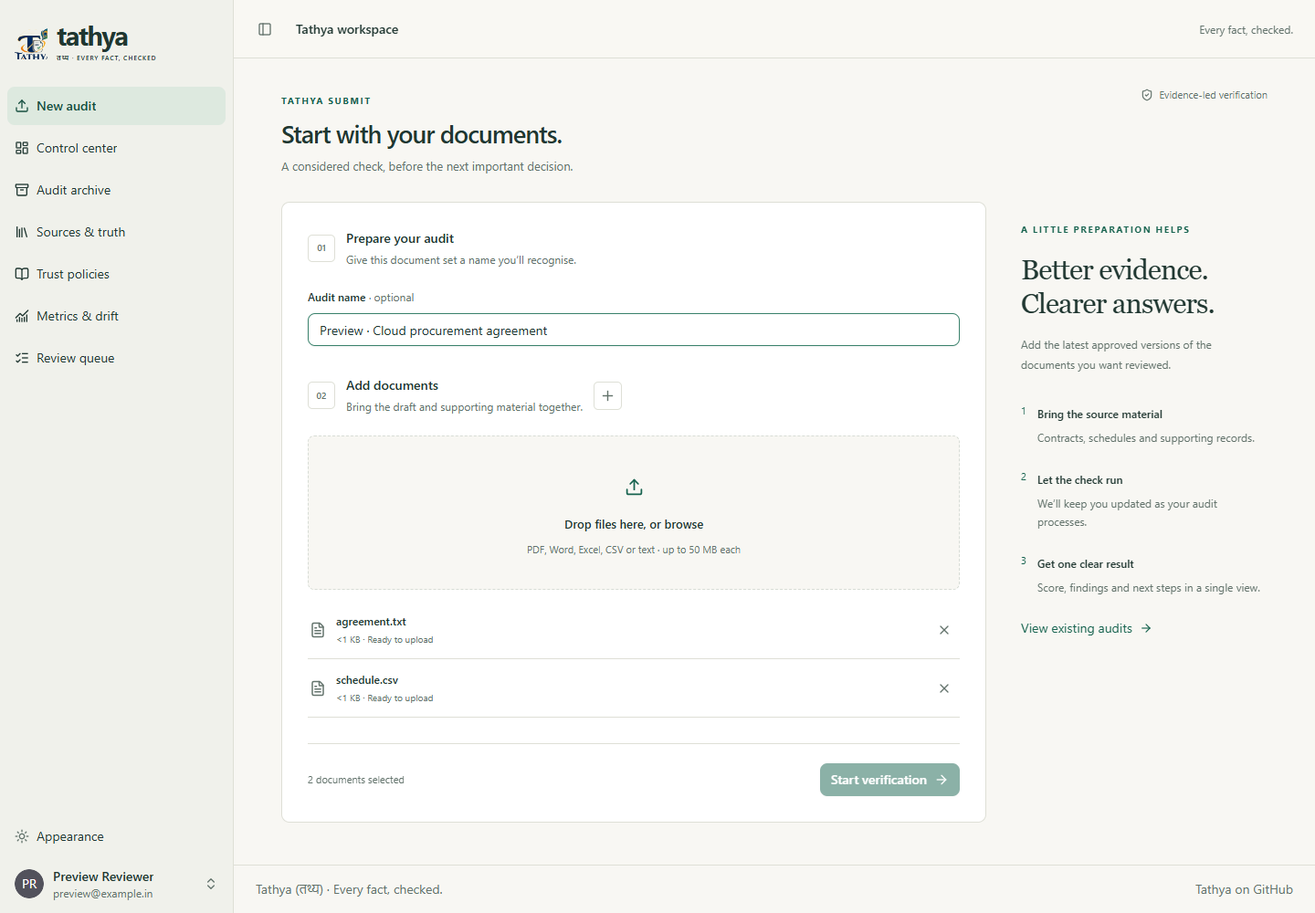
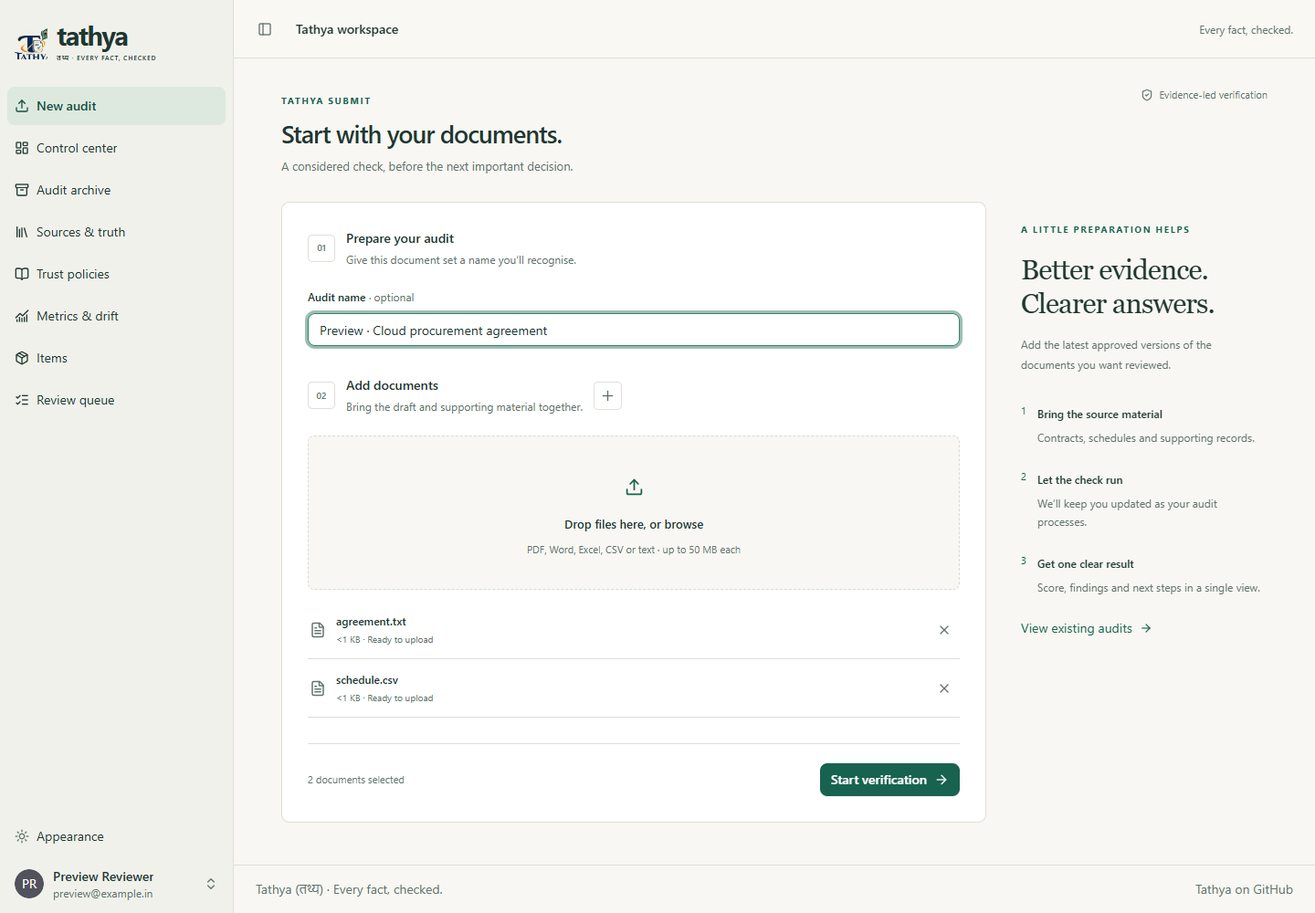
Sync published approved UI and retain existing Items access

Changed region(s): [[0.625, 0.837, 0.75, 0.899], [0.0, 0.372, 0.0938, 0.403], [0.0312, 0.434, 0.0938, 0.465]]

diff --git a/docs/ui-design-review/index.html b/docs/ui-design-review/index.html
@@ -1,1 +1,1 @@
-<!doctype html><html lang="en"><meta charset="utf-8"><meta name="viewport" content="width=device-width,initial-scale=1"><title>Tathya · Design review</title><style>*{box-sizing:border-box}body{margin:0;background:#f8f7f2;color:#183831;font:14px system-ui,sans-serif}main{max-width:1280px;margin:auto;padding:48px 24px}header small{letter-spacing:.18em;color:#796c4c}h1{font:52px Georgia,serif;margin:16px 0}header p{line-height:1.7;color:#63746e;max-width:700px}video{width:100%;max-height:560px;background:#f8f3e3;border-radius:16px;border:1px solid #ddd8c9;margin:24px 0}nav{display:flex;gap:12px;margin:24px 0;position:sticky;top:0;padding:16px 0;background:#f8f7f2;z-index:1}button{padding:10px 20px;border:1px solid #cbd5cd;border-radius:8px;background:white;color:#183831;cursor:pointer}button[aria-pressed="true"]{background:#185d4f;color:white}.grid{display:grid;grid-template-columns:repeat(2,minmax(0,1fr));gap:24px}article{border:1px solid #dedfd5;border-radius:12px;background:white;overflow:hidden}article img{width:100%;height:310px;object-fit:contain;background:#efeee7;display:block}h3{margin:0;padding:18px;font-size:15px}[hidden]{display:none}@media(max-width:650px){.grid{grid-template-columns:1fr}h1{font-size:36px}article img{height:260px}}.splash-live{display:block;width:100%;height:560px;border:1px solid #ddd8c9;border-radius:16px;margin:24px 0;background:#f8f3e3}@media(max-width:650px){.splash-live{height:500px}}</style><main><header><small>TATHYA / PHASE 1 + PHASE 2</small><h1>Designed for clarity.</h1><p>Complete web review: authentication, submission, results, control, review, sources, policies, metrics, governance and verification. Screenshots use sample Preview records. Policy editing and score drift require additional backend capabilities. Main merge awaits your approval.</p></header><h2>Animated brand splash</h2><iframe class="splash-live" title="Live animated Tathya splash" src="http://127.0.0.1:4173/splash"></iframe><nav aria-label="Filter screenshots"><button data-filter="all" aria-pressed="true">All screens</button><button data-filter="desktop" aria-pressed="false">Desktop</button><button data-filter="mobile" aria-pressed="false">Mobile</button></nav><div class="grid"><article data-kind="desktop"><a href="screenshots/splash-complete-v3.png" target="_blank"><img src="screenshots/splash-complete-v3.png" alt="Animated splash" loading="lazy"/></a><h3>Animated splash</h3></article><article data-kind="desktop"><a href="screenshots/splash-parts-v3.png" target="_blank"><img src="screenshots/splash-parts-v3.png" alt="Splash · staged reveal" loading="lazy"/></a><h3>Splash · staged reveal</h3></article><article data-kind="desktop"><a href="screenshots/login-desktop-v3.png" target="_blank"><img src="screenshots/login-desktop-v3.png" alt="Login" loading="lazy"/></a><h3>Login</h3></article><article data-kind="desktop"><a href="screenshots/signup-desktop-v3.png" target="_blank"><img src="screenshots/signup-desktop-v3.png" alt="Signup" loading="lazy"/></a><h3>Signup</h3></article><article data-kind="desktop"><a href="screenshots/recover-desktop-v3.png" target="_blank"><img src="screenshots/recover-desktop-v3.png" alt="Password recovery" loading="lazy"/></a><h3>Password recovery</h3></article><article data-kind="desktop"><a href="screenshots/reset-desktop-v3.png" target="_blank"><img src="screenshots/reset-desktop-v3.png" alt="Reset password" loading="lazy"/></a><h3>Reset password</h3></article><article data-kind="desktop"><a href="screenshots/submit-desktop-v2.png" target="_blank"><img src="screenshots/submit-desktop-v2.png" alt="Submit documents" loading="lazy"/></a><h3>Submit documents</h3></article><article data-kind="desktop"><a href="screenshots/result-desktop-v2.png" target="_blank"><img src="screenshots/result-desktop-v2.png" alt="Audit result" loading="lazy"/></a><h3>Audit result</h3></article><article data-kind="desktop"><a href="screenshots/control-desktop-v2.png" target="_blank"><img src="screenshots/control-desktop-v2.png" alt="Control center" loading="lazy"/></a><h3>Control center</h3></article><article data-kind="desktop"><a href="screenshots/investigation-desktop-v2.png" target="_blank"><img src="screenshots/investigation-desktop-v2.png" alt="Review workspace" loading="lazy"/></a><h3>Review workspace</h3></article><article data-kind="desktop"><a href="screenshots/archive-desktop-v3.png" target="_blank"><img src="screenshots/archive-desktop-v3.png" alt="Audit archive" loading="lazy"/></a><h3>Audit archive</h3></article><article data-kind="desktop"><a href="screenshots/sources-desktop-v3.png" target="_blank"><img src="screenshots/sources-desktop-v3.png" alt="Sources &amp; truth" loading="lazy"/></a><h3>Sources &amp; truth</h3></article><article data-kind="desktop"><a href="screenshots/policies-desktop-v3.png" target="_blank"><img src="screenshots/policies-desktop-v3.png" alt="Trust policies" loading="lazy"/></a><h3>Trust policies</h3></article><article data-kind="desktop"><a href="screenshots/metrics-desktop-v3.png" target="_blank"><img src="screenshots/metrics-desktop-v3.png" alt="Metrics &amp; drift" loading="lazy"/></a><h3>Metrics &amp; drift</h3></article><article data-kind="desktop"><a href="screenshots/admin-desktop-v3.png" target="_blank"><img src="screenshots/admin-desktop-v3.png" alt="Governance &amp; admin" loading="lazy"/></a><h3>Governance &amp; admin</h3></article><article data-kind="desktop"><a href="screenshots/add-user-1440-v3.png" target="_blank"><img src="screenshots/add-user-1440-v3.png" alt="Add user" loading="lazy"/></a><h3>Add user</h3></article><article data-kind="desktop"><a href="screenshots/settings-desktop-v3.png" target="_blank"><img src="screenshots/settings-desktop-v3.png" alt="Account settings" loading="lazy"/></a><h3>Account settings</h3></article><article data-kind="desktop"><a href="screenshots/settings-password-v3.png" target="_blank"><img src="screenshots/settings-password-v3.png" alt="Change password" loading="lazy"/></a><h3>Change password</h3></article><article data-kind="desktop"><a href="screenshots/settings-account-v3.png" target="_blank"><img src="screenshots/settings-account-v3.png" alt="Account deletion" loading="lazy"/></a><h3>Account deletion</h3></article><article data-kind="desktop"><a href="screenshots/verifier-desktop-v3.png" target="_blank"><img src="screenshots/verifier-desktop-v3.png" alt="Public verifier" loading="lazy"/></a><h3>Public verifier</h3></article><article data-kind="desktop"><a href="screenshots/notfound-desktop-v3.png" target="_blank"><img src="screenshots/notfound-desktop-v3.png" alt="Page not found" loading="lazy"/></a><h3>Page not found</h3></article><article data-kind="desktop"><a href="screenshots/service-unavailable-v2.png" target="_blank"><img src="screenshots/service-unavailable-v2.png" alt="Service unavailable" loading="lazy"/></a><h3>Service unavailable</h3></article><article data-kind="mobile"><a href="screenshots/admin-mobile-v3.png" target="_blank"><img src="screenshots/admin-mobile-v3.png" alt="Admin · Mobile" loading="lazy"/></a><h3>Admin · Mobile</h3></article><article data-kind="mobile"><a href="screenshots/archive-mobile-v3.png" target="_blank"><img src="screenshots/archive-mobile-v3.png" alt="Archive · Mobile" loading="lazy"/></a><h3>Archive · Mobile</h3></article><article data-kind="mobile"><a href="screenshots/control-mobile-v2.png" target="_blank"><img src="screenshots/control-mobile-v2.png" alt="Control · Mobile" loading="lazy"/></a><h3>Control · Mobile</h3></article><article data-kind="mobile"><a href="screenshots/login-mobile-v3.png" target="_blank"><img src="screenshots/login-mobile-v3.png" alt="Login · Mobile" loading="lazy"/></a><h3>Login · Mobile</h3></article><article data-kind="mobile"><a href="screenshots/metrics-mobile-v3.png" target="_blank"><img src="screenshots/metrics-mobile-v3.png" alt="Metrics · Mobile" loading="lazy"/></a><h3>Metrics · Mobile</h3></article><article data-kind="mobile"><a href="screenshots/notfound-mobile-v3.png" target="_blank"><img src="screenshots/notfound-mobile-v3.png" alt="Notfound · Mobile" loading="lazy"/></a><h3>Notfound · Mobile</h3></article><article data-kind="mobile"><a href="screenshots/policies-mobile-v3.png" target="_blank"><img src="screenshots/policies-mobile-v3.png" alt="Policies · Mobile" loading="lazy"/></a><h3>Policies · Mobile</h3></article><article data-kind="mobile"><a href="screenshots/recover-mobile-v3.png" target="_blank"><img src="screenshots/recover-mobile-v3.png" alt="Recover · Mobile" loading="lazy"/></a><h3>Recover · Mobile</h3></article><article data-kind="mobile"><a href="screenshots/reset-mobile-v3.png" target="_blank"><img src="screenshots/reset-mobile-v3.png" alt="Reset · Mobile" loading="lazy"/></a><h3>Reset · Mobile</h3></article><article data-kind="mobile"><a href="screenshots/result-mobile-v2.png" target="_blank"><img src="screenshots/result-mobile-v2.png" alt="Result · Mobile" loading="lazy"/></a><h3>Result · Mobile</h3></article><article data-kind="mobile"><a href="screenshots/settings-mobile-v3.png" target="_blank"><img src="screenshots/settings-mobile-v3.png" alt="Settings · Mobile" loading="lazy"/></a><h3>Settings · Mobile</h3></article><article data-kind="mobile"><a href="screenshots/signup-mobile-v3.png" target="_blank"><img src="screenshots/signup-mobile-v3.png" alt="Signup · Mobile" loading="lazy"/></a><h3>Signup · Mobile</h3></article><article data-kind="mobile"><a href="screenshots/sources-mobile-v3.png" target="_blank"><img src="screenshots/sources-mobile-v3.png" alt="Sources · Mobile" loading="lazy"/></a><h3>Sources · Mobile</h3></article><article data-kind="mobile"><a href="screenshots/submit-mobile-v2.png" target="_blank"><img src="screenshots/submit-mobile-v2.png" alt="Submit · Mobile" loading="lazy"/></a><h3>Submit · Mobile</h3></article><article data-kind="mobile"><a href="screenshots/verifier-mobile-v3.png" target="_blank"><img src="screenshots/verifier-mobile-v3.png" alt="Verifier · Mobile" loading="lazy"/></a><h3>Verifier · Mobile</h3></article><article data-kind="mobile"><a href="screenshots/add-user-390-v3.png" target="_blank"><img src="screenshots/add-user-390-v3.png" alt="Add user · Mobile" loading="lazy"/></a><h3>Add user · Mobile</h3></article><article data-kind="desktop"><a href="screenshots/queue-desktop-v3.png" target="_blank"><img src="screenshots/queue-desktop-v3.png" alt="Review queue" loading="lazy"/></a><h3>Review queue</h3></article><article data-kind="mobile"><a href="screenshots/queue-mobile-v3.png" target="_blank"><img src="screenshots/queue-mobile-v3.png" alt="Review queue · Mobile" loading="lazy"/></a><h3>Review queue · Mobile</h3></article><article data-kind="desktop"><a href="screenshots/investigation-desktop-v3.png" target="_blank"><img src="screenshots/investigation-desktop-v3.png" alt="Investigation workspace" loading="lazy"/></a><h3>Investigation workspace</h3></article><article data-kind="mobile"><a href="screenshots/investigation-mobile-v3.png" target="_blank"><img src="screenshots/investigation-mobile-v3.png" alt="Investigation workspace · Mobile" loading="lazy"/></a><h3>Investigation workspace · Mobile</h3></article></div></main><script>document.querySelectorAll('[data-filter]').forEach(button=>button.addEventListener('click',()=>{document.querySelectorAll('[data-filter]').forEach(b=>b.setAttribute('aria-pressed',String(b===button)));document.querySelectorAll('[data-kind]').forEach(card=>card.hidden=button.dataset.filter!=='all'&&card.dataset.kind!==button.dataset.filter)}))</script></html>
+<!doctype html><html lang="en"><meta charset="utf-8"><meta name="viewport" content="width=device-width,initial-scale=1"><title>Tathya · Design review</title><style>*{box-sizing:border-box}body{margin:0;background:#f8f7f2;color:#183831;font:14px system-ui,sans-serif}main{max-width:1280px;margin:auto;padding:48px 24px}header small{letter-spacing:.18em;color:#796c4c}h1{font:52px Georgia,serif;margin:16px 0}header p{line-height:1.7;color:#63746e;max-width:700px}video{width:100%;max-height:560px;background:#f8f3e3;border-radius:16px;border:1px solid #ddd8c9;margin:24px 0}nav{display:flex;gap:12px;margin:24px 0;position:sticky;top:0;padding:16px 0;background:#f8f7f2;z-index:1}button{padding:10px 20px;border:1px solid #cbd5cd;border-radius:8px;background:white;color:#183831;cursor:pointer}button[aria-pressed="true"]{background:#185d4f;color:white}.grid{display:grid;grid-template-columns:repeat(2,minmax(0,1fr));gap:24px}article{border:1px solid #dedfd5;border-radius:12px;background:white;overflow:hidden}article img{width:100%;height:310px;object-fit:contain;background:#efeee7;display:block}h3{margin:0;padding:18px;font-size:15px}[hidden]{display:none}@media(max-width:650px){.grid{grid-template-columns:1fr}h1{font-size:36px}article img{height:260px}}.splash-live{display:block;width:100%;height:560px;border:1px solid #ddd8c9;border-radius:16px;margin:24px 0;background:#f8f3e3}@media(max-width:650px){.splash-live{height:500px}}</style><main><header><small>TATHYA / PHASE 1 + PHASE 2</small><h1>Designed for clarity.</h1><p>Complete web review: authentication, submission, results, control, review, sources, policies, metrics, governance and verification. Screenshots use sample Preview records. Policy editing and score drift require additional backend capabilities. Design approved for main.</p></header><h2>Animated brand splash</h2><iframe class="splash-live" title="Live animated Tathya splash" src="http://127.0.0.1:4173/splash"></iframe><nav aria-label="Filter screenshots"><button data-filter="all" aria-pressed="true">All screens</button><button data-filter="desktop" aria-pressed="false">Desktop</button><button data-filter="mobile" aria-pressed="false">Mobile</button></nav><div class="grid"><article data-kind="desktop"><a href="screenshots/splash-complete-v3.png" target="_blank"><img src="screenshots/splash-complete-v3.png" alt="Animated splash" loading="lazy"/></a><h3>Animated splash</h3></article><article data-kind="desktop"><a href="screenshots/splash-parts-v3.png" target="_blank"><img src="screenshots/splash-parts-v3.png" alt="Splash · staged reveal" loading="lazy"/></a><h3>Splash · staged reveal</h3></article><article data-kind="desktop"><a href="screenshots/login-desktop-v3.png" target="_blank"><img src="screenshots/login-desktop-v3.png" alt="Login" loading="lazy"/></a><h3>Login</h3></article><article data-kind="desktop"><a href="screenshots/signup-desktop-v3.png" target="_blank"><img src="screenshots/signup-desktop-v3.png" alt="Signup" loading="lazy"/></a><h3>Signup</h3></article><article data-kind="desktop"><a href="screenshots/recover-desktop-v3.png" target="_blank"><img src="screenshots/recover-desktop-v3.png" alt="Password recovery" loading="lazy"/></a><h3>Password recovery</h3></article><article data-kind="desktop"><a href="screenshots/reset-desktop-v3.png" target="_blank"><img src="screenshots/reset-desktop-v3.png" alt="Reset password" loading="lazy"/></a><h3>Reset password</h3></article><article data-kind="desktop"><a href="screenshots/submit-desktop-v2.png" target="_blank"><img src="screenshots/submit-desktop-v2.png" alt="Submit documents" loading="lazy"/></a><h3>Submit documents</h3></article><article data-kind="desktop"><a href="screenshots/result-desktop-v2.png" target="_blank"><img src="screenshots/result-desktop-v2.png" alt="Audit result" loading="lazy"/></a><h3>Audit result</h3></article><article data-kind="desktop"><a href="screenshots/control-desktop-v2.png" target="_blank"><img src="screenshots/control-desktop-v2.png" alt="Control center" loading="lazy"/></a><h3>Control center</h3></article><article data-kind="desktop"><a href="screenshots/investigation-desktop-v2.png" target="_blank"><img src="screenshots/investigation-desktop-v2.png" alt="Review workspace" loading="lazy"/></a><h3>Review workspace</h3></article><article data-kind="desktop"><a href="screenshots/archive-desktop-v3.png" target="_blank"><img src="screenshots/archive-desktop-v3.png" alt="Audit archive" loading="lazy"/></a><h3>Audit archive</h3></article><article data-kind="desktop"><a href="screenshots/sources-desktop-v3.png" target="_blank"><img src="screenshots/sources-desktop-v3.png" alt="Sources &amp; truth" loading="lazy"/></a><h3>Sources &amp; truth</h3></article><article data-kind="desktop"><a href="screenshots/policies-desktop-v3.png" target="_blank"><img src="screenshots/policies-desktop-v3.png" alt="Trust policies" loading="lazy"/></a><h3>Trust policies</h3></article><article data-kind="desktop"><a href="screenshots/metrics-desktop-v3.png" target="_blank"><img src="screenshots/metrics-desktop-v3.png" alt="Metrics &amp; drift" loading="lazy"/></a><h3>Metrics &amp; drift</h3></article><article data-kind="desktop"><a href="screenshots/admin-desktop-v3.png" target="_blank"><img src="screenshots/admin-desktop-v3.png" alt="Governance &amp; admin" loading="lazy"/></a><h3>Governance &amp; admin</h3></article><article data-kind="desktop"><a href="screenshots/add-user-1440-v3.png" target="_blank"><img src="screenshots/add-user-1440-v3.png" alt="Add user" loading="lazy"/></a><h3>Add user</h3></article><article data-kind="desktop"><a href="screenshots/settings-desktop-v3.png" target="_blank"><img src="screenshots/settings-desktop-v3.png" alt="Account settings" loading="lazy"/></a><h3>Account settings</h3></article><article data-kind="desktop"><a href="screenshots/settings-password-v3.png" target="_blank"><img src="screenshots/settings-password-v3.png" alt="Change password" loading="lazy"/></a><h3>Change password</h3></article><article data-kind="desktop"><a href="screenshots/settings-account-v3.png" target="_blank"><img src="screenshots/settings-account-v3.png" alt="Account deletion" loading="lazy"/></a><h3>Account deletion</h3></article><article data-kind="desktop"><a href="screenshots/verifier-desktop-v3.png" target="_blank"><img src="screenshots/verifier-desktop-v3.png" alt="Public verifier" loading="lazy"/></a><h3>Public verifier</h3></article><article data-kind="desktop"><a href="screenshots/notfound-desktop-v3.png" target="_blank"><img src="screenshots/notfound-desktop-v3.png" alt="Page not found" loading="lazy"/></a><h3>Page not found</h3></article><article data-kind="desktop"><a href="screenshots/service-unavailable-v2.png" target="_blank"><img src="screenshots/service-unavailable-v2.png" alt="Service unavailable" loading="lazy"/></a><h3>Service unavailable</h3></article><article data-kind="mobile"><a href="screenshots/admin-mobile-v3.png" target="_blank"><img src="screenshots/admin-mobile-v3.png" alt="Admin · Mobile" loading="lazy"/></a><h3>Admin · Mobile</h3></article><article data-kind="mobile"><a href="screenshots/archive-mobile-v3.png" target="_blank"><img src="screenshots/archive-mobile-v3.png" alt="Archive · Mobile" loading="lazy"/></a><h3>Archive · Mobile</h3></article><article data-kind="mobile"><a href="screenshots/control-mobile-v2.png" target="_blank"><img src="screenshots/control-mobile-v2.png" alt="Control · Mobile" loading="lazy"/></a><h3>Control · Mobile</h3></article><article data-kind="mobile"><a href="screenshots/login-mobile-v3.png" target="_blank"><img src="screenshots/login-mobile-v3.png" alt="Login · Mobile" loading="lazy"/></a><h3>Login · Mobile</h3></article><article data-kind="mobile"><a href="screenshots/metrics-mobile-v3.png" target="_blank"><img src="screenshots/metrics-mobile-v3.png" alt="Metrics · Mobile" loading="lazy"/></a><h3>Metrics · Mobile</h3></article><article data-kind="mobile"><a href="screenshots/notfound-mobile-v3.png" target="_blank"><img src="screenshots/notfound-mobile-v3.png" alt="Notfound · Mobile" loading="lazy"/></a><h3>Notfound · Mobile</h3></article><article data-kind="mobile"><a href="screenshots/policies-mobile-v3.png" target="_blank"><img src="screenshots/policies-mobile-v3.png" alt="Policies · Mobile" loading="lazy"/></a><h3>Policies · Mobile</h3></article><article data-kind="mobile"><a href="screenshots/recover-mobile-v3.png" target="_blank"><img src="screenshots/recover-mobile-v3.png" alt="Recover · Mobile" loading="lazy"/></a><h3>Recover · Mobile</h3></article><article data-kind="mobile"><a href="screenshots/reset-mobile-v3.png" target="_blank"><img src="screenshots/reset-mobile-v3.png" alt="Reset · Mobile" loading="lazy"/></a><h3>Reset · Mobile</h3></article><article data-kind="mobile"><a href="screenshots/result-mobile-v2.png" target="_blank"><img src="screenshots/result-mobile-v2.png" alt="Result · Mobile" loading="lazy"/></a><h3>Result · Mobile</h3></article><article data-kind="mobile"><a href="screenshots/settings-mobile-v3.png" target="_blank"><img src="screenshots/settings-mobile-v3.png" alt="Settings · Mobile" loading="lazy"/></a><h3>Settings · Mobile</h3></article><article data-kind="mobile"><a href="screenshots/signup-mobile-v3.png" target="_blank"><img src="screenshots/signup-mobile-v3.png" alt="Signup · Mobile" loading="lazy"/></a><h3>Signup · Mobile</h3></article><article data-kind="mobile"><a href="screenshots/sources-mobile-v3.png" target="_blank"><img src="screenshots/sources-mobile-v3.png" alt="Sources · Mobile" loading="lazy"/></a><h3>Sources · Mobile</h3></article><article data-kind="mobile"><a href="screenshots/submit-mobile-v2.png" target="_blank"><img src="screenshots/submit-mobile-v2.png" alt="Submit · Mobile" loading="lazy"/></a><h3>Submit · Mobile</h3></article><article data-kind="mobile"><a href="screenshots/verifier-mobile-v3.png" target="_blank"><img src="screenshots/verifier-mobile-v3.png" alt="Verifier · Mobile" loading="lazy"/></a><h3>Verifier · Mobile</h3></article><article data-kind="mobile"><a href="screenshots/add-user-390-v3.png" target="_blank"><img src="screenshots/add-user-390-v3.png" alt="Add user · Mobile" loading="lazy"/></a><h3>Add user · Mobile</h3></article><article data-kind="desktop"><a href="screenshots/queue-desktop-v3.png" target="_blank"><img src="screenshots/queue-desktop-v3.png" alt="Review queue" loading="lazy"/></a><h3>Review queue</h3></article><article data-kind="mobile"><a href="screenshots/queue-mobile-v3.png" target="_blank"><img src="screenshots/queue-mobile-v3.png" alt="Review queue · Mobile" loading="lazy"/></a><h3>Review queue · Mobile</h3></article><article data-kind="desktop"><a href="screenshots/investigation-desktop-v3.png" target="_blank"><img src="screenshots/investigation-desktop-v3.png" alt="Investigation workspace" loading="lazy"/></a><h3>Investigation workspace</h3></article><article data-kind="mobile"><a href="screenshots/investigation-mobile-v3.png" target="_blank"><img src="screenshots/investigation-mobile-v3.png" alt="Investigation workspace · Mobile" loading="lazy"/></a><h3>Investigation workspace · Mobile</h3></article></div></main><script>document.querySelectorAll('[data-filter]').forEach(button=>button.addEventListener('click',()=>{document.querySelectorAll('[data-filter]').forEach(b=>b.setAttribute('aria-pressed',String(b===button)));document.querySelectorAll('[data-kind]').forEach(card=>card.hidden=button.dataset.filter!=='all'&&card.dataset.kind!==button.dataset.filter)}))</script></html>

diff --git a/frontend/src/routes/_layout/items.tsx b/frontend/src/routes/_layout/items.tsx
@@ -56,15 +56,17 @@ function ItemsTable() {
 
 function Items() {
   return (
-    <div className="flex flex-col gap-6">
-      <div className="flex items-center justify-between">
+    <div className="product-page">
+      <div className="product-heading">
         <div>
           <h1 className="text-2xl font-bold tracking-tight">Items</h1>
           <p className="text-muted-foreground">Create and manage your items</p>
         </div>
         <AddItem />
       </div>
-      <ItemsTable />
+      <section className="product-panel p-4">
+        <ItemsTable />
+      </section>
     </div>
   )
 }

diff --git a/frontend/index.html b/frontend/index.html
@@ -5,7 +5,7 @@
     <meta name="viewport" content="width=device-width, initial-scale=1.0" />
     <title>Tathya — Every fact, checked.</title>
     <meta name="description" content="Tathya (तथ्य) — document fact verification, evidence review and trust passports." />
-    <link rel="icon" type="image/svg+xml" href="/assets/images/tathya-logo.svg" />
+    <link rel="icon" type="image/png" href="/assets/images/tathya-logo.png" />
   </head>
   <body>
     <div id="root"></div>

diff --git a/frontend/src/components/Items/ItemActionsMenu.tsx b/frontend/src/components/Items/ItemActionsMenu.tsx
@@ -21,7 +21,7 @@ export const ItemActionsMenu = ({ item }: ItemActionsMenuProps) => {
   return (
     <DropdownMenu open={open} onOpenChange={setOpen}>
       <DropdownMenuTrigger asChild>
-        <Button variant="ghost" size="icon">
+        <Button variant="ghost" size="icon" aria-label={`Manage ${item.title}`}>
           <EllipsisVertical />
         </Button>
       </DropdownMenuTrigger>

diff --git a/frontend/src/components/Sidebar/AppSidebar.tsx b/frontend/src/components/Sidebar/AppSidebar.tsx
@@ -5,6 +5,7 @@ import {
   LayoutDashboard,
   Library,
   ListChecks,
+  Package,
   Upload,
   Users,
 } from "lucide-react"
@@ -32,6 +33,7 @@ const baseItems: Item[] = [
     title: "Metrics & drift",
     path: "/control/metrics",
   },
+  { icon: Package, title: "Items", path: "/items" },
 ]
 
 export function AppSidebar() {

diff --git a/frontend/src/routes/recover-password.tsx b/frontend/src/routes/recover-password.tsx
@@ -42,7 +42,7 @@ export const Route = createFileRoute("/recover-password")({
   head: () => ({
     meta: [
       {
-        title: "Recover Password - Tathya",
+        title: "Recover Password - Tathya Template",
       },
     ],
   }),

diff --git a/frontend/src/routes/reset-password.tsx b/frontend/src/routes/reset-password.tsx
@@ -60,7 +60,7 @@ export const Route = createFileRoute("/reset-password")({
   head: () => ({
     meta: [
       {
-        title: "Reset Password - Tathya",
+        title: "Reset Password - Tathya Template",
       },
     ],
   }),

diff --git a/frontend/vite.config.ts b/frontend/vite.config.ts
@@ -6,6 +6,7 @@ import { defineConfig } from "vite"
 
 // https://vitejs.dev/config/
 export default defineConfig({
+  css: { postcss: { plugins: [] } },
   build: {
     outDir: "../backend/app/frontend",
     emptyOutDir: true,

diff --git a/docs/ui-design-review/README.md b/docs/ui-design-review/README.md
@@ -1,6 +1,6 @@
 # Tathya Phase 1 + Phase 2 UI review
 
-Status: ready for design review; main merge awaits user approval. Branch: `codex/tathya-ui-polish`.
+Status: ready for design review; design approved by the user; approved for publication to main. Branch: `codex/tathya-ui-polish`.
 
 ## Page coverage
 

diff --git a/docs/ui-design-review/GALLERY.md b/docs/ui-design-review/GALLERY.md
@@ -1,6 +1,6 @@
 # Phase 1 + Phase 2 · Screenshot review
 
-Preview audit records are sample data. Main merge awaits approval.
+Preview audit records are sample data. Design approved for main.
 
 [Animated splash video](splash-animation.webm) · [Design notes and validation](README.md)
 
